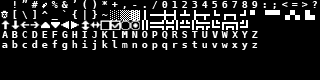
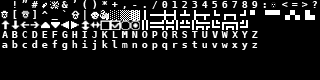
v0.12, 031325a
Minor fontsheet adjustments as well as comment addendums across all files to make the purpose of components more clear.

diff --git a/components/ai.py b/components/ai.py
@@ -1,24 +1,24 @@
 #JPD
-#RogueFishing ai management file
-
-
-
+#RogueFishing general ai management file
 #This file controls the various ai types
 
 #credits:
 #general TCOD reference: https://python-tcod.readthedocs.io/en/latest/index.html
 #roguelike tutorial: rogueliketutorials.com
 
-#Used code by "Roguelike Tutorials", website found at rogueliketutorials.com with slight addendums/modifications---------
+#Used code by "Roguelike Tutorials" created by Tyler Standridge, website found at rogueliketutorials.com with addendums/modifications by me (JPD)
 
 
+#comments after entries are NOT by me, comments noted by """ are also not by me.
+#my comments are (for the most point)above lines!
+#for files with lots of comments by the original creator, I will denote their comments with ##
 
 #imports
 from __future__ import annotations
 
 from typing import List, Tuple, TYPE_CHECKING
 
-import numpy as np  # type: ignore
+import numpy as np  ## type: ignore <- that isnt by me, for ex
 import tcod
 
 from actions import Action, MeleeAction, MovementAction, WaitAction
@@ -27,7 +27,7 @@ from components.base_component import BaseComponent
 if TYPE_CHECKING:
     from entity import Actor
 
-
+#sets up default, basic ai
 class BaseAI(Action, BaseComponent):
     entity: Actor
     def perform(self) -> None:
@@ -38,30 +38,32 @@ class BaseAI(Action, BaseComponent):
 
         If there is no valid path then returns an empty list.
         """
-        # Copy the walkable array.
+        ## Copy the walkable array.
         cost = np.array(self.entity.gamemap.tiles["walkable"], dtype=np.int8)
 
         for entity in self.entity.gamemap.entities:
-            # Check that an enitiy blocks movement and the cost isn't zero (blocking.)
+            ## Check that an enitiy blocks movement and the cost isn't zero (blocking.)
             if entity.blocks_movement and cost[entity.x, entity.y]:
-                # Add to the cost of a blocked position.
-                # A lower number means more enemies will crowd behind each other in
-                # hallways.  A higher number means enemies will take longer paths in
-                # order to surround the player.
+                ## Add to the cost of a blocked position.
+                ## A lower number means more enemies will crowd behind each other in
+                ## hallways.  A higher number means enemies will take longer paths in
+                ## order to surround the player.
                 cost[entity.x, entity.y] += 10
 
-        # Create a graph from the cost array and pass that graph to a new pathfinder.
+        ## Create a graph from the cost array and pass that graph to a new pathfinder.
         graph = tcod.path.SimpleGraph(cost=cost, cardinal=2, diagonal=3)
         pathfinder = tcod.path.Pathfinder(graph)
 
         pathfinder.add_root((self.entity.x, self.entity.y))  # Start position.
 
-        # Compute the path to the destination and remove the starting point.
+        ## Compute the path to the destination and remove the starting point.
         path: List[List[int]] = pathfinder.path_to((dest_x, dest_y))[1:].tolist()
 
-        # Convert from List[List[int]] to List[Tuple[int, int]].
+        ## Convert from List[List[int]] to List[Tuple[int, int]].
         return [(index[0], index[1]) for index in path]
-    
+
+#sets up a specialized hostile ai that is based off the basic one created above, usable for any enemy!
+#additional ai types can be created and placed here!
 class HostileEnemy(BaseAI):
     def __init__(self, entity: Actor):
         super().__init__(entity)
@@ -71,7 +73,8 @@ class HostileEnemy(BaseAI):
         target = self.engine.player
         dx = target.x - self.entity.x
         dy = target.y - self.entity.y
-        distance = max(abs(dx), abs(dy))  # Chebyshev distance.
+        #sketchy math stuff
+        distance = max(abs(dx), abs(dy))  ## Chebyshev distance.
 
         if self.engine.game_map.visible[self.entity.x, self.entity.y]:
             if distance <= 1:
@@ -86,3 +89,5 @@ class HostileEnemy(BaseAI):
             ).perform()
 
         return WaitAction(self.entity).perform()
+
+#end of line

diff --git a/main.py b/main.py
@@ -1,12 +1,15 @@
 #JPD
 #RogueFishing
 #Started 3/5/25
-#ALL comments by me
 #written with python v 3.13.1 and tcod (a roguelike engine) v 16.2.3
+
+#comments after entries are NOT by me, comments noted by """ are also not by me.
+#my comments are (for the most point)above lines!
+#for files with lots of comments by the original creator, I will denote their comments with ##
 
 #credits:
 #general TCOD reference: https://python-tcod.readthedocs.io/en/latest/index.html
-#roguelike tutorial: rogueliketutorials.com
+#Used code by "Roguelike Tutorials" created by Tyler Standridge, website found at rogueliketutorials.com with addendums/modifications by me (JPD)
 
 #this is the primary python file for the roguefishing project
 
@@ -22,7 +25,7 @@ import entity_factories
 #import the game map file
 from procgen import generate_dungeon
 
-#Used code by "Roguelike Tutorials", website found at rogueliketutorials.com with slight addendums/modifications---------
+#Used code from "Roguelike Tutorials" created by Tyler Standridge, website found at rogueliketutorials.com with addendums/modifications by me (JPD)
 ###Draws the player (@)###
 def main() -> None:
     #sets screen size
@@ -89,6 +92,24 @@ if __name__ == "__main__":
 
 #end of used code---------
 
-
 #end of line
+
+#........'''''.      ..'',,,,,,,,,;;;;;;;;;;;;;;;;;;;;;;;;;;,..                ..';:cc::;,..           .;;;;,                   .''''''.'
+#,:'........,dc    ,loc;;;,,,,,,,,,,,;;;;;;;;;;;;;;;;;;;;;;;cod1'           'codlc:,,,,;:loxxc'      ..xx;;;dd.                 cx,....,o'
+#,c.        .x:  ,ol'...                                      .,oo'      .:ol,.           ..':xkl.   ..kk. ..ckl.               cO.    'o'
+#;l.        .kc cx:..     .......................................;d,   .cd:.        ...       .'oO1. .'kk.   .'lkc.             lO.    'd'
+#.;,,,,,,,,;;c;'ko..   ;ddllllllllooooooooooodddddddddddddddddddxxdo. .dc.     .,:oodddxdl;.    .;kO,.'Ok.    ..'dk:.           lO.    'd'
+              #,x: .   .kd............................................ol.     ,dl,......'ckOc.....,OO''OO.      ..;xx'          l0.    .d'
+              #,kc .   .ko..   ....,kdlclllxd'.:kdooodddddddddddddxx':x...  .lo............1Kx.....;0d'OO.        ..cko. .......o0.    ,d'
+              #,kc .   .kd..  .....:Kd.....O0,.oK;...............:kc.dc.....ck'.............1Xc.....k0,OO.          .,Ox,xc'''',':.    ,x'
+              #,k: .   .kd..    ...:0d.....O0,.oK;.............;dd,..d:.....lO..............cKc.....x0,0O.    .......;0x;0:            ,x'
+              #,k: .    kd..      .;0d.....O0,.,kd,.....':::cloc'....co.    ,ko............,OO.....,0x'0O.  ..ox:,,'';:''dx;           ,x,
+              #,x:      ko..       ;0d.....O0'...ckd;.....'oxc........o,     .ox;.........1Ox......xK;,OO.  ..oO,       ..;xd.         ,x,
+              #,x:      xo..       ;0o.   .k0'.....:xo,.....'ld;......'o'.    .'colc::cldd1'    ..xK:.'OO.  ..oO,          .cxc.       ,x'
+              #,x;      xo..       ;Oo.   .k0'.     .;dd;.    .:o;.    .lc.       .......      .;Ox' .'OO.  ..lO,            .cd;      ,x'
+              #,x;      xl .       ,Oo.   .k0'.       .,od;,    .:dc.    'cc'.              .'lkk;   .'Ok.  ..lO,              .ld;    ,d'
+              #,d;      xl .       ,kl.   .xO..          'dd;.    .:o:.    .;ll;'........':okxc.     .'kk.  ..lk,               .'oo.  ,d,
+              #.c;;''',;,          .oo::cccl:.             'ldigitalllc.      ..,;:ccllllc:'.         .:c:::::ll.                 .,,',,c.
+
+#(logo made by Github user Mike Bell)
 

diff --git a/components/fighter.py b/components/fighter.py
@@ -9,12 +9,9 @@
 #general TCOD reference: https://python-tcod.readthedocs.io/en/latest/index.html
 #roguelike tutorial: rogueliketutorials.com
 
-#Used code by "Roguelike Tutorials", website found at rogueliketutorials.com with slight addendums/modifications---------
-
-
+#Used code from "Roguelike Tutorials" created by Tyler Standridge, website found at rogueliketutorials.com with addendums/modifications by me (JPD)
 
 #imports
-
 from __future__ import annotations
 
 from typing import TYPE_CHECKING
@@ -26,7 +23,7 @@ from render_order import RenderOrder
 if TYPE_CHECKING:
     from entity import Actor
 
-
+#this allows "classes" to be created and player/actor attributes to be managed
 class Fighter(BaseComponent):
     entity: Actor
     def __init__(self, hp: int, defense: int, power: int):
@@ -52,7 +49,7 @@ class Fighter(BaseComponent):
             self.engine.event_handler = GameOverEventHandler(self.engine)
         else:
             death_message = f"{self.entity.name} is dead!"
-
+        #creates "corpse"
         self.entity.char = "%"
         self.entity.color = (191, 0, 0)
         self.entity.blocks_movement = False

diff --git a/entity_factories.py b/entity_factories.py
@@ -8,7 +8,7 @@
 #general TCOD reference: https://python-tcod.readthedocs.io/en/latest/index.html
 #roguelike tutorial: rogueliketutorials.com
 
-#Used code by "Roguelike Tutorials", website found at rogueliketutorials.com with slight addendums/modifications---------
+#Used code from "Roguelike Tutorials" created by Tyler Standridge, website found at rogueliketutorials.com with addendums/modifications by me (JPD)
 
 #imports
 
@@ -16,10 +16,14 @@ from components.ai import HostileEnemy
 from components.fighter import Fighter
 from entity import Actor
 
+#These options allow entities to be created and customized!
+#entitiy visual appearance and gameplay attributes customizable! yipeeee!
+
 player = Actor(
     char="@",
     color=(255, 255, 255),
     name="Player",
+    #because player doesn't use ai this is useless vvv
     ai_cls=HostileEnemy,
     fighter=Fighter(hp=30, defense=2, power=5),
 )

diff --git a/components/base_component.py b/components/base_component.py
@@ -5,7 +5,7 @@
 #general TCOD reference: https://python-tcod.readthedocs.io/en/latest/index.html
 #roguelike tutorial: rogueliketutorials.com
 
-#Used code by "Roguelike Tutorials", website found at rogueliketutorials.com with slight addendums/modifications---------
+#Used code from "Roguelike Tutorials" created by Tyler Standridge, website found at rogueliketutorials.com with addendums/modifications by me (JPD)
 
 #imports
 from __future__ import annotations
@@ -18,7 +18,7 @@ if TYPE_CHECKING:
 
 
 class BaseComponent:
-    entity: Entity  # Owning entity instance.
+    entity: Entity  ## Owning entity instance.
 
     @property
     def engine(self) -> Engine:

diff --git a/entity.py b/entity.py
@@ -8,7 +8,7 @@
 #general TCOD reference: https://python-tcod.readthedocs.io/en/latest/index.html
 #roguelike tutorial: rogueliketutorials.com
 
-#Used code by "Roguelike Tutorials", website found at rogueliketutorials.com with slight addendums/modifications---------
+#Used code from "Roguelike Tutorials" created by Tyler Standridge, website found at rogueliketutorials.com with addendums/modifications by me (JPD)
 
 #imports
 from __future__ import annotations

diff --git a/game_map.py b/game_map.py
@@ -9,7 +9,7 @@
 #general TCOD reference: https://python-tcod.readthedocs.io/en/latest/index.html
 #roguelike tutorial: rogueliketutorials.com
 
-#Used code by "Roguelike Tutorials", website found at rogueliketutorials.com with slight addendums/modifications---------
+#Used code from "Roguelike Tutorials" created by Tyler Standridge, website found at rogueliketutorials.com with addendums/modifications by me (JPD)
 
 from __future__ import annotations
 

diff --git a/input_handlers.py b/input_handlers.py
@@ -8,7 +8,7 @@
 #general TCOD reference: https://python-tcod.readthedocs.io/en/latest/index.html
 #roguelike tutorial: rogueliketutorials.com
 
-#Used code by "Roguelike Tutorials", website found at rogueliketutorials.com with slight addendums/modifications---------
+#Used code from "Roguelike Tutorials" created by Tyler Standridge, website found at rogueliketutorials.com with addendums/modifications by me (JPD)
 
 from __future__ import annotations
 

diff --git a/engine.py b/engine.py
@@ -8,7 +8,7 @@
 #general TCOD reference: https://python-tcod.readthedocs.io/en/latest/index.html
 #roguelike tutorial: rogueliketutorials.com
 
-#Used code by "Roguelike Tutorials", website found at rogueliketutorials.com with slight addendums/modifications---------
+#Used code from "Roguelike Tutorials" created by Tyler Standridge, website found at rogueliketutorials.com with addendums/modifications by me (JPD)
 
 #imports
 
